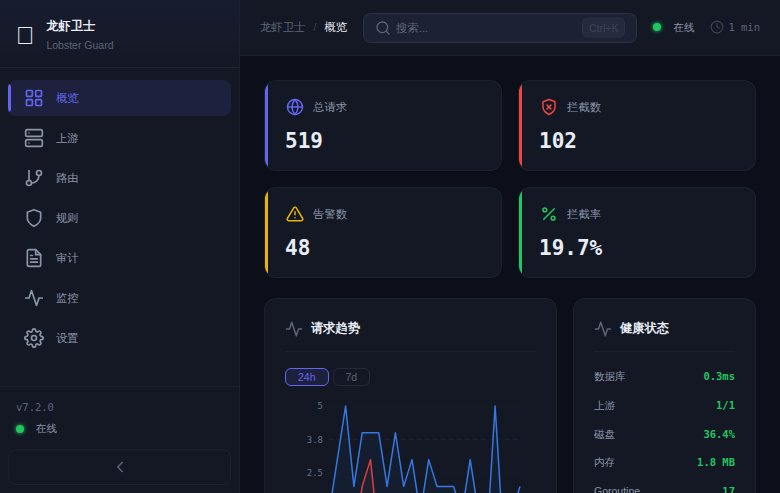
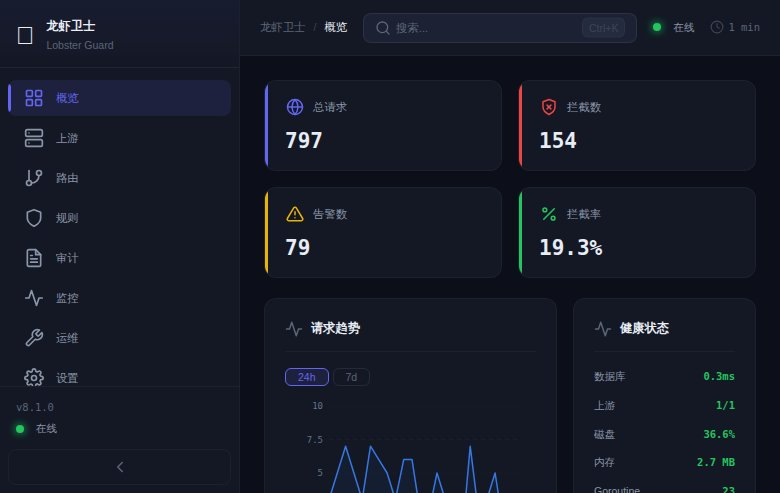
fix: 演示数据注入同时更新ruleHits内存计数器
修复概览页规则命中TOP5和拦截类型分布饼图无数据问题:
- demo/seed 插入审计日志的同时, 调用 ruleHits.RecordWithGroup
  注入 11 条模拟规则的命中统计 (injection/jailbreak/pii/custom)
- 每条规则 5-44 次随机命中

diff --git a/api.go b/api.go
@@ -1905,6 +1905,26 @@ func (api *ManagementAPI) handleDemoSeed(w http.ResponseWriter, r *http.Request)
 		return
 	}
 
+	// 同步更新内存中的 ruleHits 计数器，让概览页的饼图和 TOP5 有数据
+	if api.ruleHits != nil {
+		rulesByGroup := map[string][]string{
+			"injection": {"prompt_injection_en", "sql_injection", "command_injection", "xss_detection"},
+			"jailbreak": {"jailbreak_dan", "jailbreak_roleplay", "system_prompt_extract"},
+			"pii":       {"pii_credit_card", "pii_ssn", "pii_phone"},
+			"custom":    {"custom_keyword", "competitor_mention"},
+		}
+		rng2 := rand.New(rand.NewSource(time.Now().UnixNano()))
+		for group, rules := range rulesByGroup {
+			for _, rule := range rules {
+				hits := 5 + rng2.Intn(40) // 5-44 hits per rule
+				for i := 0; i < hits; i++ {
+					api.ruleHits.RecordWithGroup(rule, group)
+				}
+			}
+		}
+		log.Printf("[Demo] 注入了规则命中统计数据")
+	}
+
 	log.Printf("[Demo] 注入了 %d 条模拟审计数据", inserted)
 	jsonResponse(w, 200, map[string]interface{}{
 		"ok":    true,
